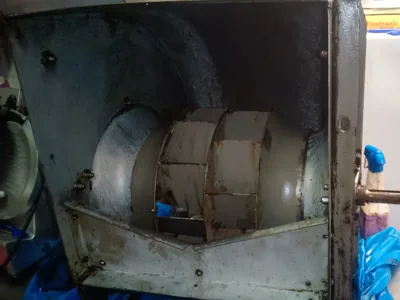
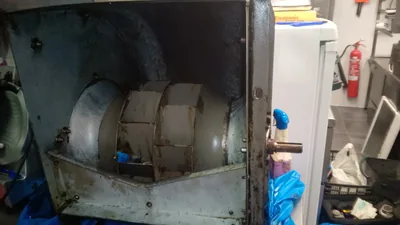
feat(fotos): FASE 2 — las 13 fotos de Jaime procesadas (400/800/1600, sin EXIF)
Cada foto del punto 5 del brief queda servida con su nombre definitivo en
WebP + JPG de respaldo y tres anchos. El nombre sin sufijo es SIEMPRE la foto
entera: el recorte de la rejilla lo hace el CSS con object-cover, que es el
"recorte centrado a proporcion fija" que pide el brief.

Los cuatro reencuadres 4:3 que ya estaban en produccion no se rehacen: se
renombran a -4x3- y siguen sirviendo esos huecos con el mismo byte y el mismo
encuadre que Jorge ya valido. Cambiarlos habria sido volver a curar por mi
cuenta algo ya decidido.

Dos desviaciones del brief, medidas y a proposito:
- Cuando el original no llega a 1600 px de ancho se sirve su ancho real
  (1125 / 1152 / 1536). Agrandar seria inventar pixeles.
- instalacion-extraccion-azotea-alicante-3 conserva 800/1280/1920 porque su
  preload vive en el <head> de index.html y tocarlo dispara el gate 4.

Gates: tsc 0 · build 0 con 11 rutas · head servido solo con hashes de asset ·
18/18 imagenes pintadas en movil 390 y escritorio 1280 · 0 errores de JS ·
0 EXIF/XMP/ICCP en los 111 ficheros publicados.

diff --git a/components/ServicesSection.tsx b/components/ServicesSection.tsx
@@ -8,9 +8,11 @@ interface ServicesSectionProps {
 
 // Las tarjetas con `base` sirven una foto local con srcset; las que aun
 // conservan `img` apuntan a la imagen antigua y estan pendientes de sustituir.
+// Un base terminado en `-4x3` es un reencuadre propio de este hueco: la version
+// sin sufijo es la foto entera y ahi el recorte centrado cortaria mal.
 const SIZES = "(min-width: 1024px) 380px, calc(100vw - 3rem)";
-const srcSet = (base: string, ext: string) =>
-  `${base}-400.${ext} 400w, ${base}-800.${ext} 800w, ${base}-1200.${ext} 1200w`;
+const srcSet = (base: string, ext: string, anchos: number[]) =>
+  anchos.map((a) => `${base}-${a}.${ext} ${a}w`).join(", ");
 
 const ServicesSection: React.FC<ServicesSectionProps> = ({ onNavigateCalculadora }) => {
   const whatsappUrl = "https://wa.me/34622064101?text=Hola,%20quisiera%20pedir%20presupuesto%20para%20el%20servicio%20de%20limpieza.";
@@ -30,7 +32,8 @@ const ServicesSection: React.FC<ServicesSectionProps> = ({ onNavigateCalculadora
       items: ["Cepillado neumático robotizado", "Apertura de registros estancos", "Eliminación de riesgos ocultos"],
       icon: "hvac",
       // Hueco 10 · foto real de Jaime (instalacion en falso techo, Alicante mayo 2025).
-      base: "/img/instalacion-conductos-falso-techo-alicante-2",
+      base: "/img/instalacion-conductos-falso-techo-alicante-2-4x3",
+      anchos: [400, 800, 1200],
       alt: "Conducto de extracción instalado por el falso techo del local",
       // Tanda 2 · Unidad 3.1: anchor SEO hacia la landing nueva de conductos.
       // Segundo anchor del brief ("desengrase interior de conductos") DIFERIDO —
@@ -45,6 +48,7 @@ const ServicesSection: React.FC<ServicesSectionProps> = ({ onNavigateCalculadora
       icon: "cyclone",
       // Hueco 11 · foto real de Jaime (traslado de la extraccion a cubierta, Alicante 2025).
       base: "/img/instalacion-extraccion-azotea-alicante-2",
+      anchos: [400, 800, 1600],
       alt: "Instalación de extracción completa en azotea con la caja de la turbina"
     }
   ];
@@ -68,10 +72,10 @@ const ServicesSection: React.FC<ServicesSectionProps> = ({ onNavigateCalculadora
               <div className="relative h-56 overflow-hidden">
                 {(service as any).base ? (
                   <picture className="block h-full w-full">
-                    <source type="image/webp" srcSet={srcSet((service as any).base, 'webp')} sizes={SIZES} />
+                    <source type="image/webp" srcSet={srcSet((service as any).base, 'webp', (service as any).anchos)} sizes={SIZES} />
                     <img
                       src={`${(service as any).base}-800.jpg`}
-                      srcSet={srcSet((service as any).base, 'jpg')}
+                      srcSet={srcSet((service as any).base, 'jpg', (service as any).anchos)}
                       sizes={SIZES}
                       alt={service.alt}
                       className="w-full h-full object-cover group-hover:scale-110 transition-transform duration-700"

diff --git a/pages/LimpiezaConductos.tsx b/pages/LimpiezaConductos.tsx
@@ -14,12 +14,12 @@ import CookieBanner from '../components/CookieBanner';
 
 // Foto real de un trabajo de Jaime (instalación, Alicante mayo 2025).
 // El alt describe lo que se ve, no el servicio que vende la página.
-const CONDUCTO_BASE = "/img/instalacion-conductos-falso-techo-alicante-1";
+const CONDUCTO_BASE = "/img/instalacion-conductos-falso-techo-alicante-1-4x3";
 const CONDUCTO_SRCSET = (ext: string) =>
   `${CONDUCTO_BASE}-400.${ext} 400w, ${CONDUCTO_BASE}-800.${ext} 800w, ${CONDUCTO_BASE}-1200.${ext} 1200w`;
 const CONDUCTO_ALT = "Conducto de extracción nuevo conectado a la unidad";
-const HERO_IMG = `${CONDUCTO_BASE}-fondo-1920.webp`;
-const CTA_IMG = `${CONDUCTO_BASE}-fondo-1280.webp`;
+const HERO_IMG = "/img/instalacion-conductos-falso-techo-alicante-1-fondo-1920.webp";
+const CTA_IMG = "/img/instalacion-conductos-falso-techo-alicante-1-fondo-1280.webp";
 
 // ─── Reveal ─────────────────────────────────────────────────────────────────
 // Pass-through: contenido siempre visible. Se conservó el componente para

diff --git a/components/ResultsSection.tsx b/components/ResultsSection.tsx
@@ -3,8 +3,8 @@ import React from 'react';
 
 const ResultsSection: React.FC = () => {
   const whatsappUrl = "https://wa.me/34622064101?text=Hola,%20quisiera%20pedir%20presupuesto%20para%20la%20limpieza%20de%20mi%20campana.";
-  const turbinaAntes = "/img/limpieza-turbina-extraccion-taller-benidorm-antes";
-  const turbinaDespues = "/img/limpieza-turbina-extraccion-taller-benidorm-despues";
+  const turbinaAntes = "/img/limpieza-turbina-extraccion-taller-benidorm-antes-4x3";
+  const turbinaDespues = "/img/limpieza-turbina-extraccion-taller-benidorm-despues-4x3";
   const sizes = "(min-width: 1024px) 568px, calc(100vw - 3rem)";
 
   return (
